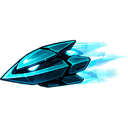
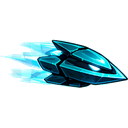
적 스프라이트 좌우 미러: 캐논 facing 방향을 오른쪽으로 통일
문제: AI 생성 PNG가 대부분 왼쪽 향함. 게임 facing 로직
(enemy-system.js:324)은 "오른쪽 이동 = flip 없음" 가정 (canonical=right)
이라 부호가 맞지 않아 적이 진행 방향 반대로 보임.

해결:
- scripts/mirror-enemies.js: assets/enemies/*.png 8장 일괄 좌우 미러 (sharp.flop)
- 적 8종 모두 오른쪽 향하도록 통일 → 기존 코드 그대로 정상 동작

문서:
- assets/SKIN_GUIDE.md: 캐논 방향 규약 섹션 추가
  - "적 PNG는 반드시 오른쪽(→)을 향하도록 그려야 함"
  - 향후 외부 자산(Kenney/itch.io 표준) 그대로 사용 호환
  - 왼쪽 향한 PNG 받았을 때 미러 스크립트 실행 방법 안내

검증:
- pipeline-play E2E 통과 (0 errors, W4까지 진행, 라이프 유지)
- 미러 후 fast/elite/normal 등 시각 확인 (오른쪽 향함)

Changed region(s): [[0.0, 0.3125, 1.0, 0.6875]]

diff --git a/scripts/mirror-enemies.js b/scripts/mirror-enemies.js
@@ -1,0 +1,41 @@
+// 적 스프라이트 좌우 미러링 (캐논 방향 = 오른쪽)
+//
+// 배경: AI 생성 PNG가 대부분 왼쪽을 향하고 있어, 게임의 facing 로직
+// (canonical=right 가정)과 부호가 맞지 않음. 한 번 좌우 미러로 통일.
+//
+// 사용:
+//   node scripts/mirror-enemies.js [--dry-run]
+//   node scripts/mirror-enemies.js --revert     # 다시 원래대로
+//
+// 기본 동작: assets/enemies/*.png 를 모두 좌우 미러로 덮어쓰기
+
+const sharp = require('sharp');
+const path = require('path');
+const fs = require('fs');
+
+const ROOT = path.resolve(__dirname, '..');
+const ENEMY_DIR = path.join(ROOT, 'assets', 'enemies');
+
+const args = process.argv.slice(2);
+const DRY_RUN = args.includes('--dry-run');
+
+(async () => {
+  if (!fs.existsSync(ENEMY_DIR)) {
+    console.error('not found:', ENEMY_DIR);
+    process.exit(1);
+  }
+  const files = fs.readdirSync(ENEMY_DIR).filter(f => f.endsWith('.png'));
+  console.log(`대상: ${files.length}개 PNG (${DRY_RUN ? 'DRY-RUN' : '실제 적용'})`);
+
+  for (const file of files) {
+    const filePath = path.join(ENEMY_DIR, file);
+    const buf = await sharp(filePath).flop().png({ compressionLevel: 9 }).toBuffer();
+    if (DRY_RUN) {
+      console.log(`  [skip] ${file}`);
+    } else {
+      fs.writeFileSync(filePath, buf);
+      console.log(`  ✓ ${file} (${buf.length} bytes)`);
+    }
+  }
+  console.log(DRY_RUN ? '\n(dry-run 종료)' : '\n✅ 미러링 완료');
+})().catch(e => { console.error(e); process.exit(1); });

diff --git a/assets/SKIN_GUIDE.md b/assets/SKIN_GUIDE.md
@@ -56,6 +56,23 @@ assets/
 
 ## 명세
 
+### 캐논 방향 규약 (적 스프라이트)
+
+**적 PNG는 반드시 오른쪽(→)을 향하도록 그려야 합니다.**
+
+게임의 facing 로직(`enemy-system.js`)이 다음 규약 기준으로 동작:
+- 적이 **오른쪽으로 이동** → flip 없음 (PNG 그대로 → 캐논 방향 = 오른쪽)
+- 적이 **왼쪽으로 이동** → CSS `scaleX(-1)` 적용 (좌우 반전)
+- 위/아래 이동 → 작은 각도 회전(rotate)
+
+만약 받은 PNG가 왼쪽을 향한다면:
+```bash
+node scripts/mirror-enemies.js   # 8개 PNG 일괄 좌우 미러링
+```
+
+> 외부 자산(Kenney/itch.io 등)도 대부분 오른쪽 facing이 표준이라 그대로 사용 가능.
+> 새 적 PNG 추가 시 오른쪽 향하게 그리면 됩니다.
+
 ### 권장 사이즈
 | 카테고리 | 권장 PNG 크기 | 게임 내 표시 |
 |---|---|---|
